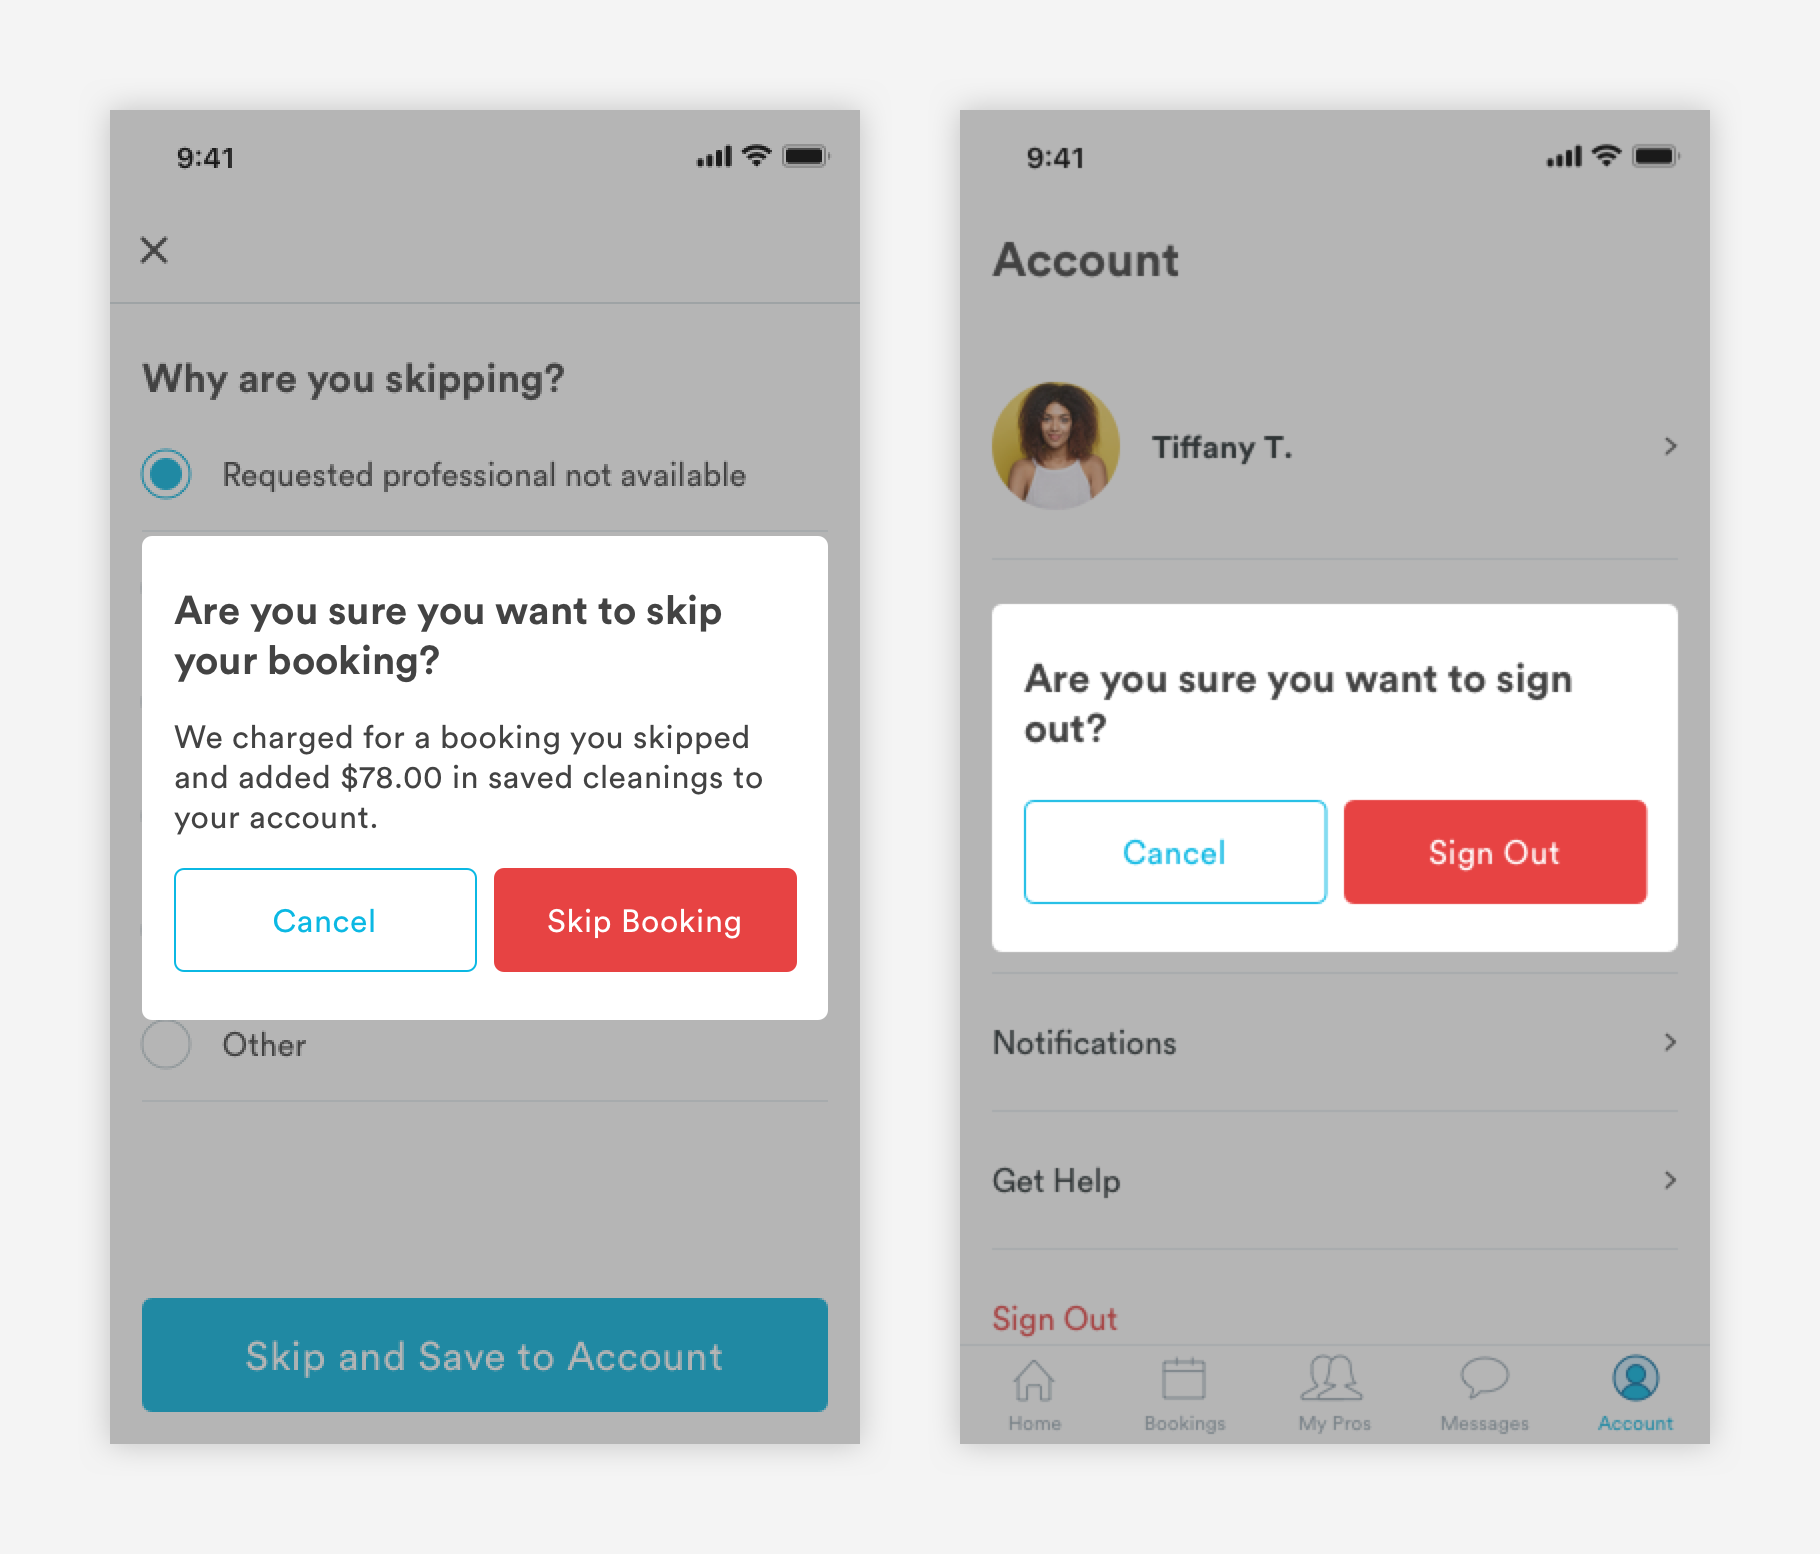
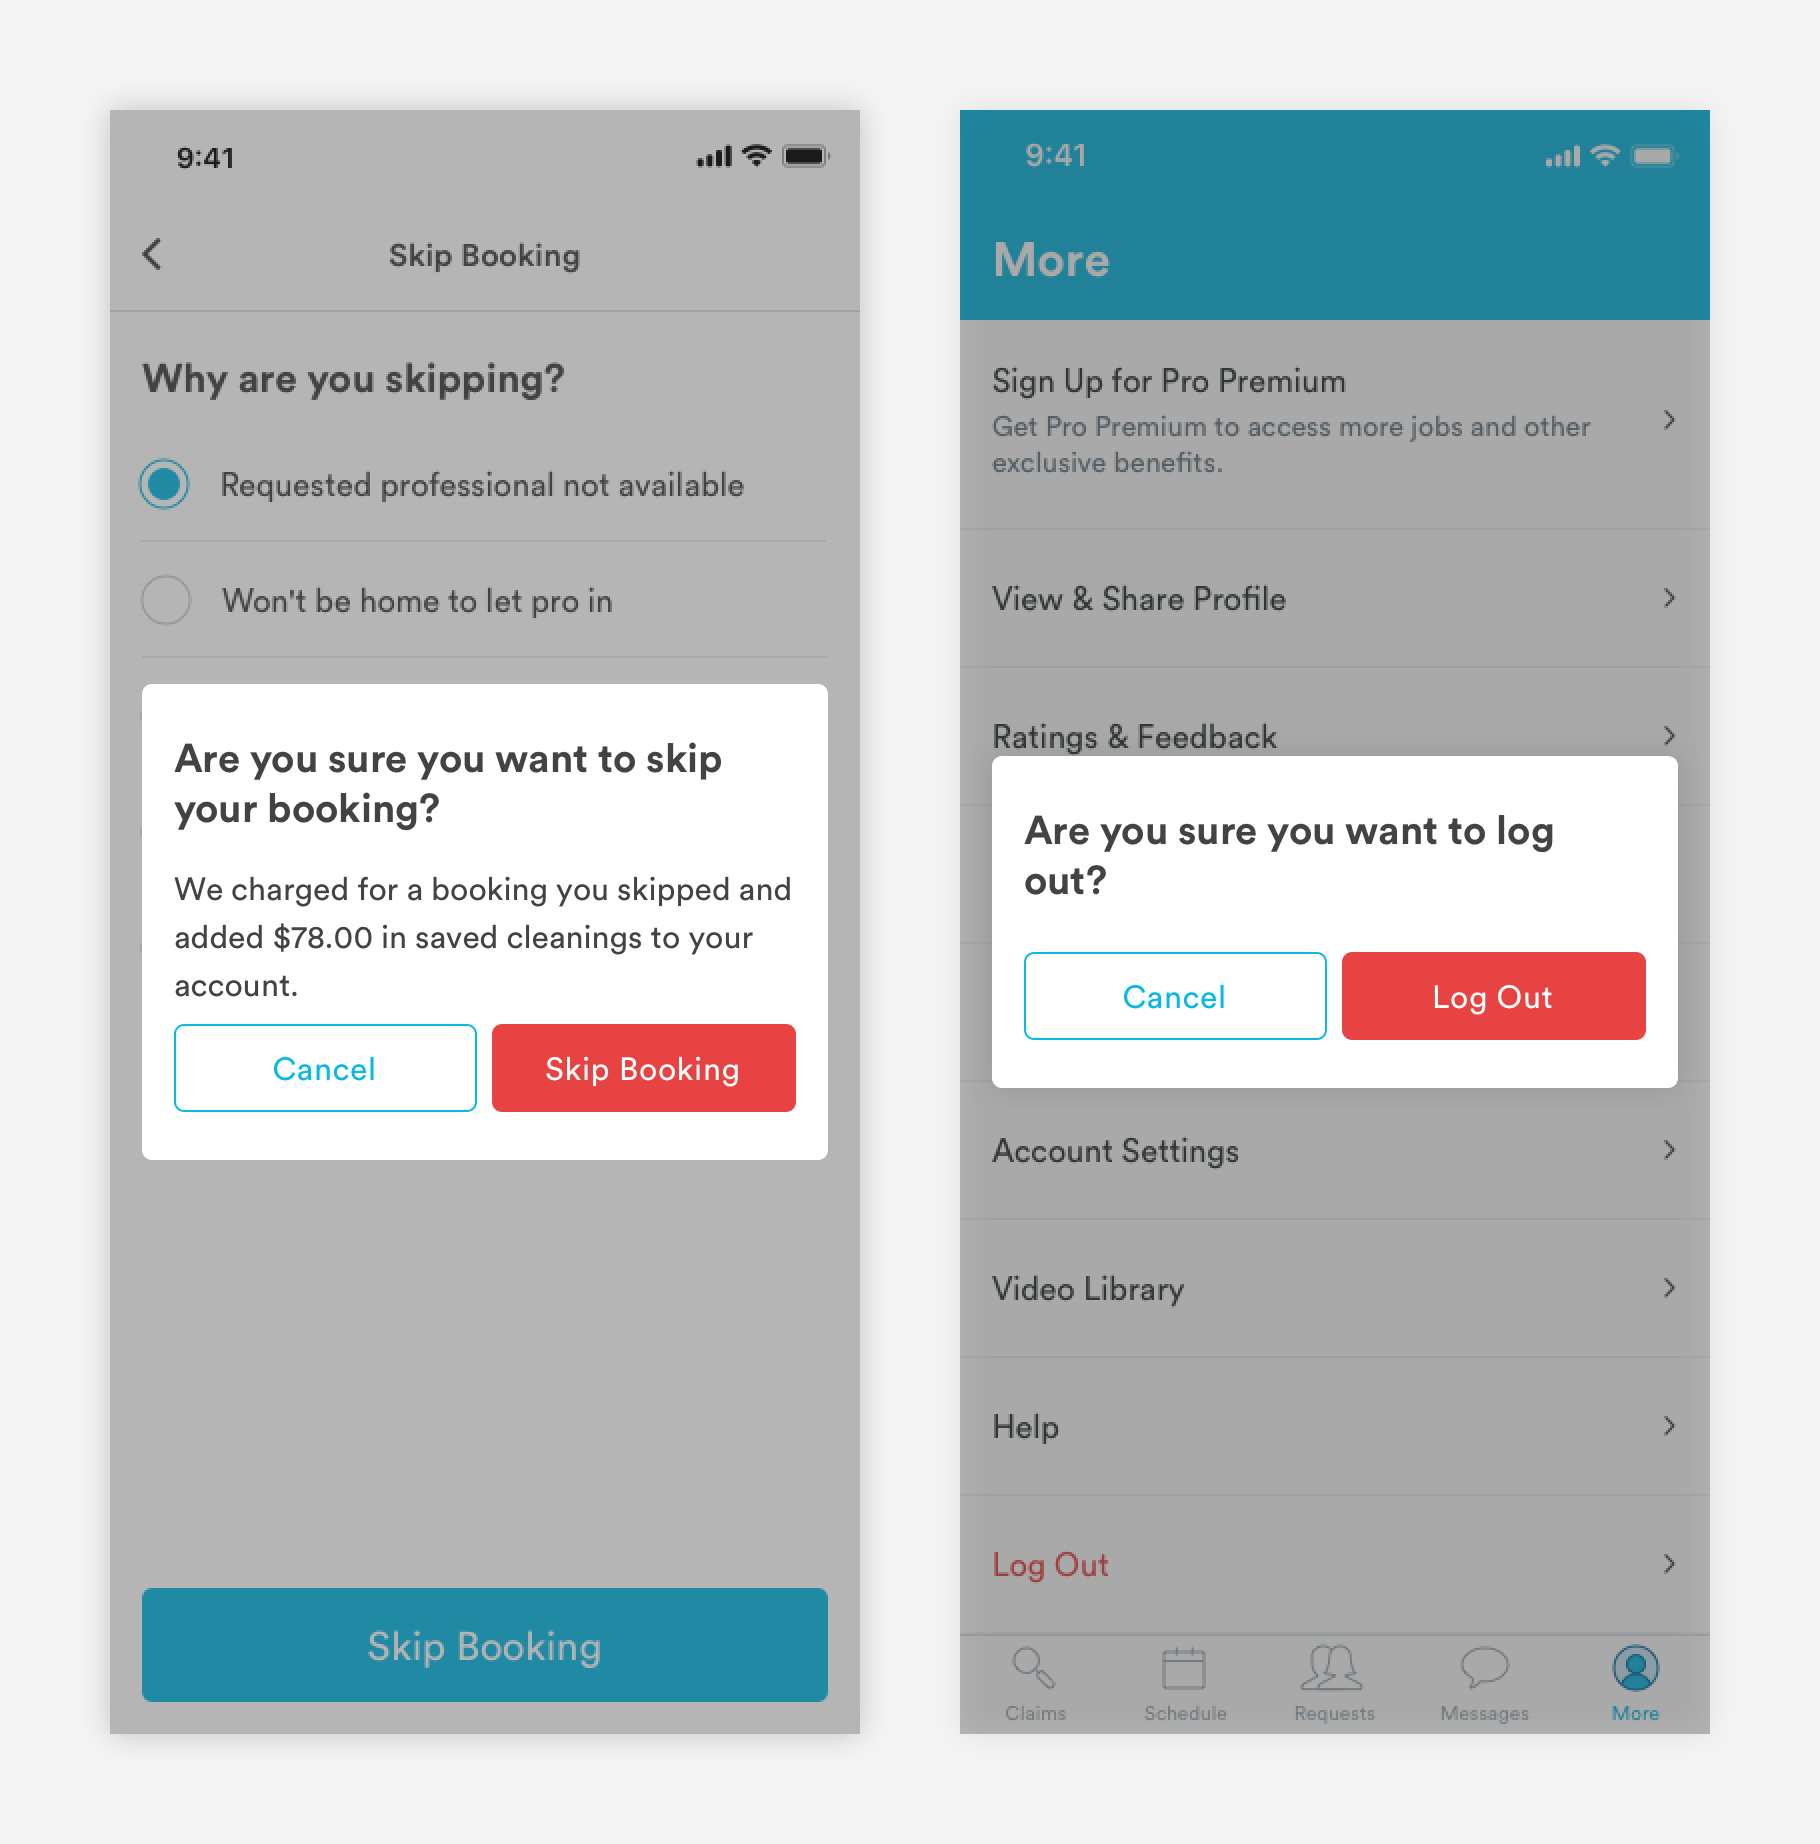
GitBook: [master] 2 pages and 9 assets modified

diff --git a/native/modal.md b/native/modal.md
@@ -14,18 +14,21 @@ Modals disable all app functionality and remain on the screen until a required a
 
 Due to its disruptive nature, modals should be used sparingly. Examples include abandoned checkout,  Handy Select booking cancellation, late fees, plan cancellation, and sign out.
 
-![](../.gitbook/assets/modal.png)
+![](../.gitbook/assets/modal%20%281%29.png)
 
-1. Modal title \(a-text-h2\)
+![](../.gitbook/assets/modal-detail.png)
+
+1. Modal title \(a-text-h3\)
 
 ```text
 font-weight: bold
-font-size: 24px;
+font-size: 20px;
 font-color: text-black
 
 padding-left: 16px
 padding-right: 16px
 padding-top: 24px
+padding-bottom: 24px
 ```
 
 2. Content \(a-text-paragraph\)
@@ -38,23 +41,23 @@ line-height: 1.5
 padding: 16px
 ```
 
-3. CTA Group
+3. CTA Group \(button-modal-small-primary and secondary\)
 
 ```text
 Primary CTA:
 max-width: 151.5px
-max-height: 52px
+max-height: 44px
 border-radius: 5px
 color: red-medium
 
 font-family: book
 font-size: 16px;
 font-color: white
-padding: 16px
+padding: 12px
 
 Secondary CTA:
 max-width: 151.5px
-max-height: 52px
+max-height: 44px
 border: 1px
 border-radius: 5px
 color: blue-medium
@@ -62,6 +65,6 @@ color: blue-medium
 font-family: book
 font-size: 16px;
 font-color: blue-medium
-padding: 16px
+padding: 12px
 ```
 

diff --git a/native/navigation.md b/native/navigation.md
@@ -27,7 +27,7 @@ font-color: blue-medium
 
 ```text
 a-text-label-slate:
-font-color: slate-medium
+font-color: slate-medium-dark
 ```
 
 3. Structure: 
